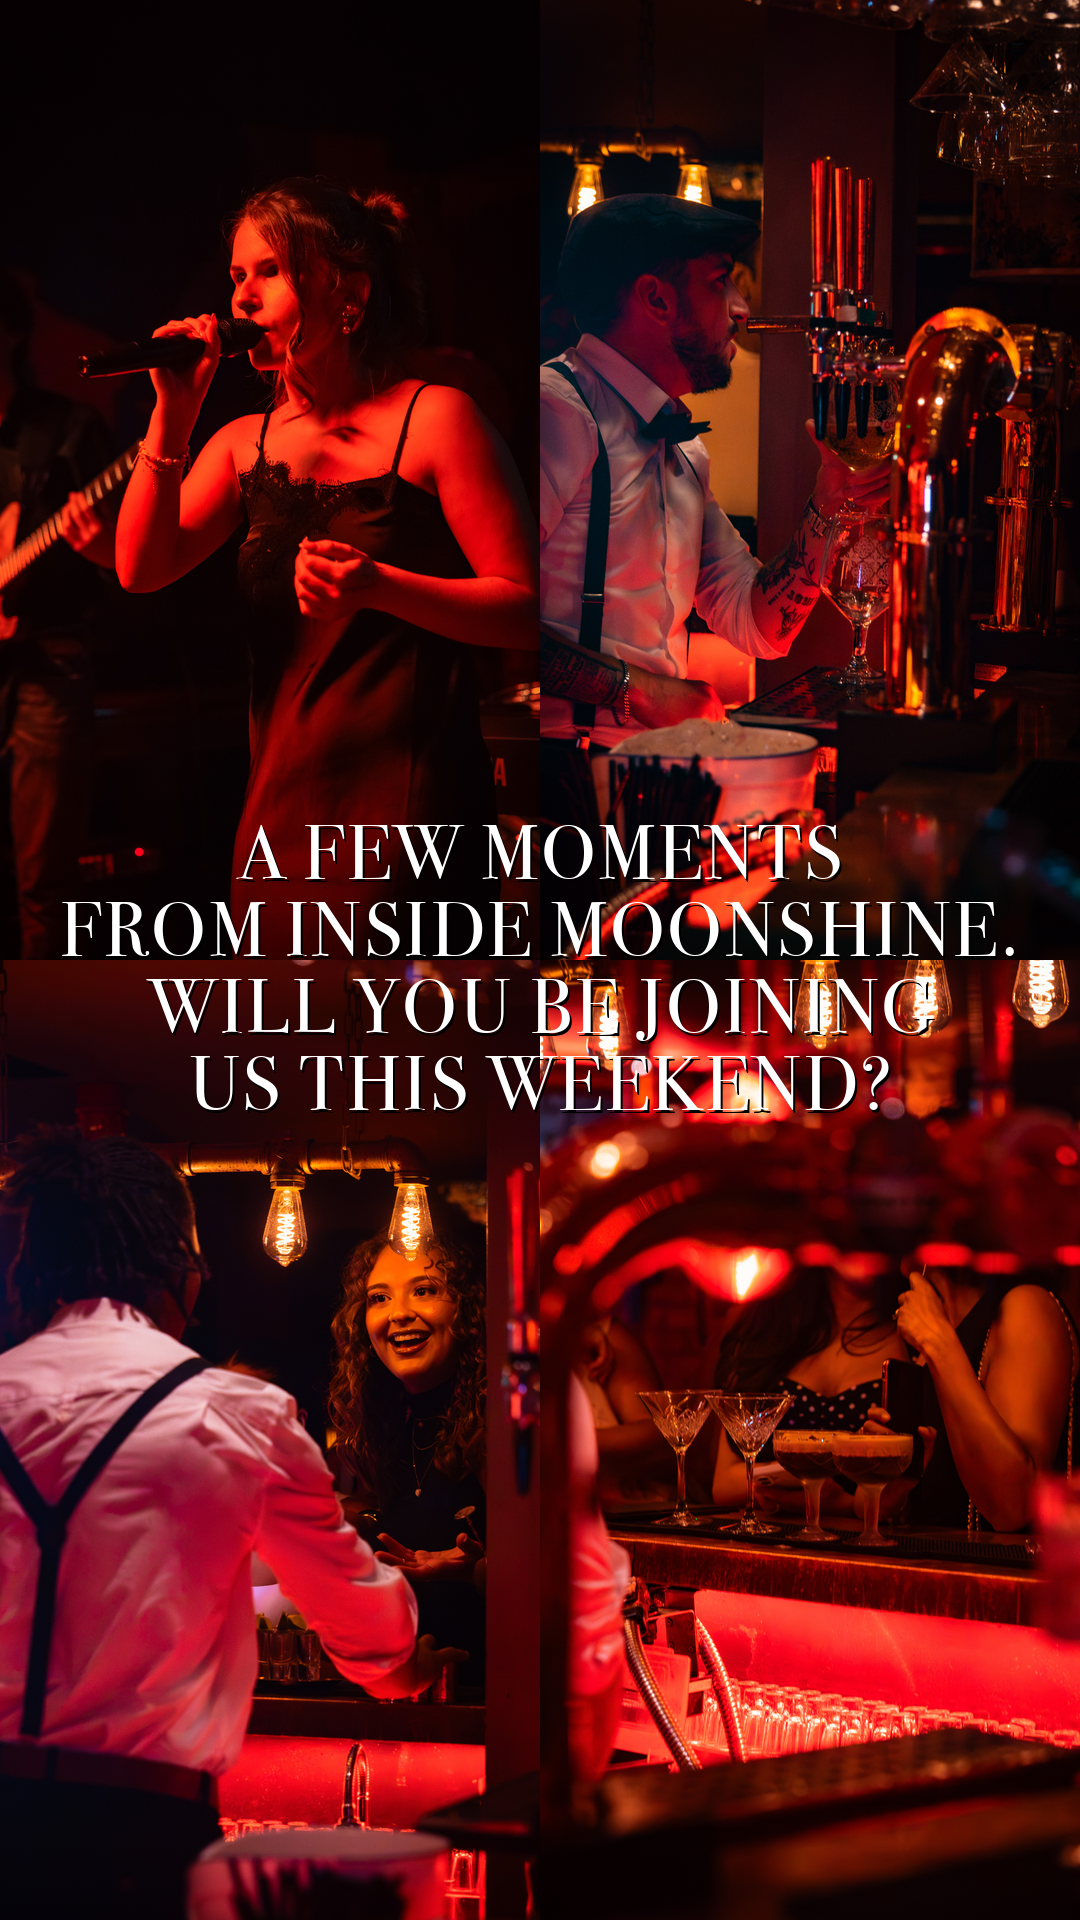
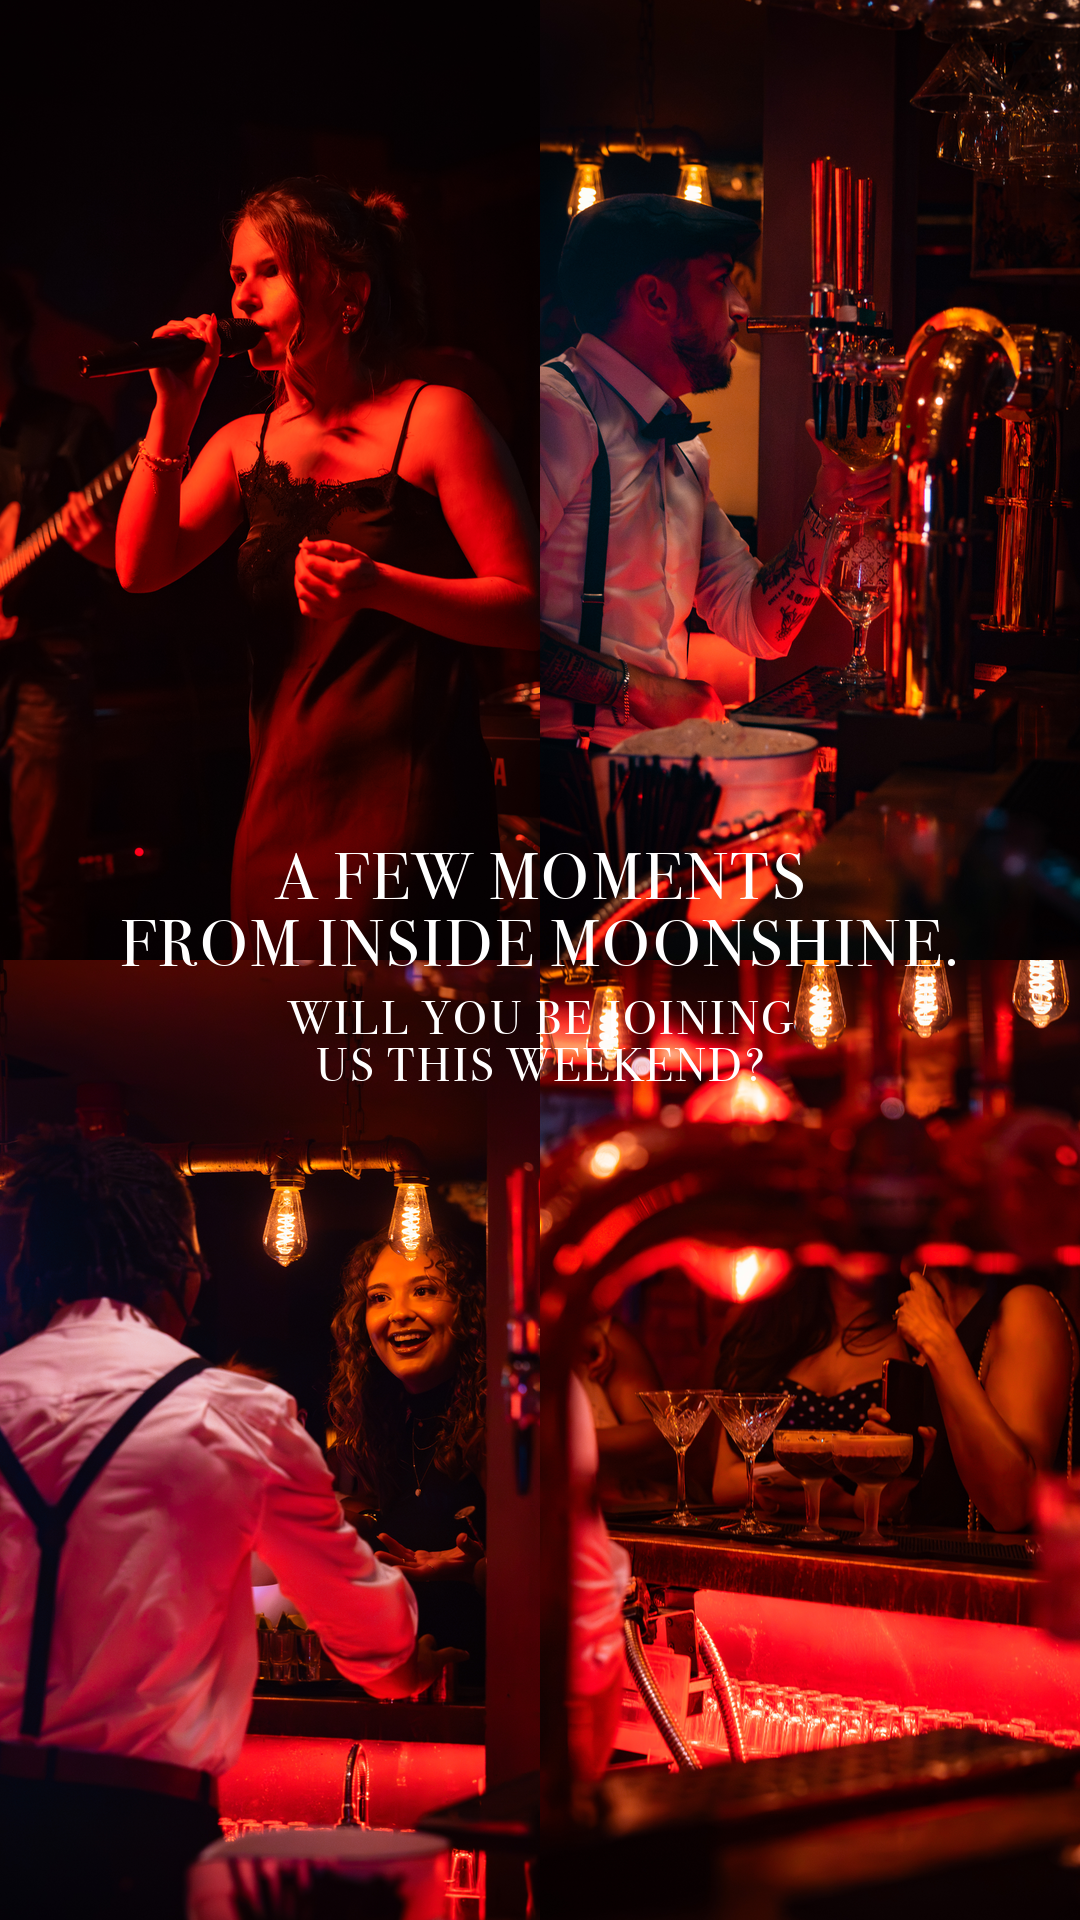
hub snapshot

Changed region(s): [[0.0611, 0.4062, 0.9167, 0.5938]]

diff --git a/tools/collage_story.py b/tools/collage_story.py
@@ -50,6 +50,8 @@ p.add_argument("--font", choices=["serif", "sans"], default="serif")
 p.add_argument("--size", type=int, default=58)
 p.add_argument("--track", type=float, default=2.5)
 p.add_argument("--leading", type=float, default=1.02)
+p.add_argument("--ratio", type=float, default=0.72)
+p.add_argument("--margin", type=int, default=110)
 p.add_argument("--caps", action="store_true", default=True)
 p.add_argument("--box", action="store_true", default=False)
 p.add_argument("--out", required=True)
@@ -68,37 +70,52 @@ for i, path in enumerate(a.photos):
 
 if a.caption:
     d = ImageDraw.Draw(canvas, "RGBA")
-    lines = [ln.upper() for ln in a.caption.split("\n")] if a.caps else a.caption.split("\n")
-    max_w = W - 120
+    raw = a.caption.split("\n")
+    if a.caps:
+        raw = [ln.upper() for ln in raw]
+    # a blank line splits the caption: everything after it renders smaller
+    if "" in [ln.strip() for ln in raw]:
+        cut = [ln.strip() for ln in raw].index("")
+        blocks = [[l for l in raw[:cut] if l.strip()], [l for l in raw[cut:] if l.strip()]]
+    else:
+        blocks = [[l for l in raw if l.strip()], []]
+    max_w = W - a.margin * 2
 
     def line_w(text, font, track):
         return sum(d.textlength(c, font=font) + track for c in text) - track if text else 0
 
-    # auto-fit: shrink until the longest line sits inside the margins
+    # auto-fit: shrink both blocks together until the widest line fits the margins
     size, track = a.size, a.track
     while size > 18:
-        font = load_font(size, a.font)
-        if max(line_w(ln, font, track) for ln in lines) <= max_w:
+        f1 = load_font(size, a.font)
+        f2 = load_font(max(14, int(size * a.ratio)), a.font)
+        widest = max([line_w(l, f1, track) for l in blocks[0]] or [0] +
+                     [line_w(l, f2, track) for l in blocks[1]] or [0])
+        if blocks[1]:
+            widest = max(widest, max(line_w(l, f2, track) for l in blocks[1]))
+        if widest <= max_w:
             break
         size -= 2
-    font = load_font(size, a.font)
+    f1 = load_font(size, a.font)
+    size2 = max(14, int(size * a.ratio))
+    f2 = load_font(size2, a.font)
 
-    def draw_tracked(x, y, text, fill):
+    def draw_tracked(x, y, text, font):
         for c in text:
-            d.text((x, y), c, font=font, fill=fill)
+            d.text((x, y), c, font=font, fill=(255, 255, 255, 255))
             x += d.textlength(c, font=font) + track
 
-    line_h = int(size * a.leading)
-    total_h = line_h * len(lines)
+    lh1, lh2 = int(size * a.leading), int(size2 * a.leading)
+    gap = int(size * 0.30) if blocks[1] else 0
+    total_h = lh1 * len(blocks[0]) + gap + lh2 * len(blocks[1])
     y = a.top + ch - total_h // 2
-    for ln in lines:
-        x = (W - line_w(ln, font, track)) / 2
-        if a.box:
-            pass
-        else:
-            draw_tracked(x + 2, y + 3, ln, (0, 0, 0, 130))   # soft shadow for legibility
-        draw_tracked(x, y, ln, (255, 255, 255, 255))
-        y += line_h
+    for ln in blocks[0]:
+        draw_tracked((W - line_w(ln, f1, track)) / 2, y, ln, f1)
+        y += lh1
+    y += gap
+    for ln in blocks[1]:
+        draw_tracked((W - line_w(ln, f2, track)) / 2, y, ln, f2)
+        y += lh2
 
 os.makedirs(os.path.dirname(os.path.abspath(a.out)), exist_ok=True)
 canvas.save(a.out, "PNG")
